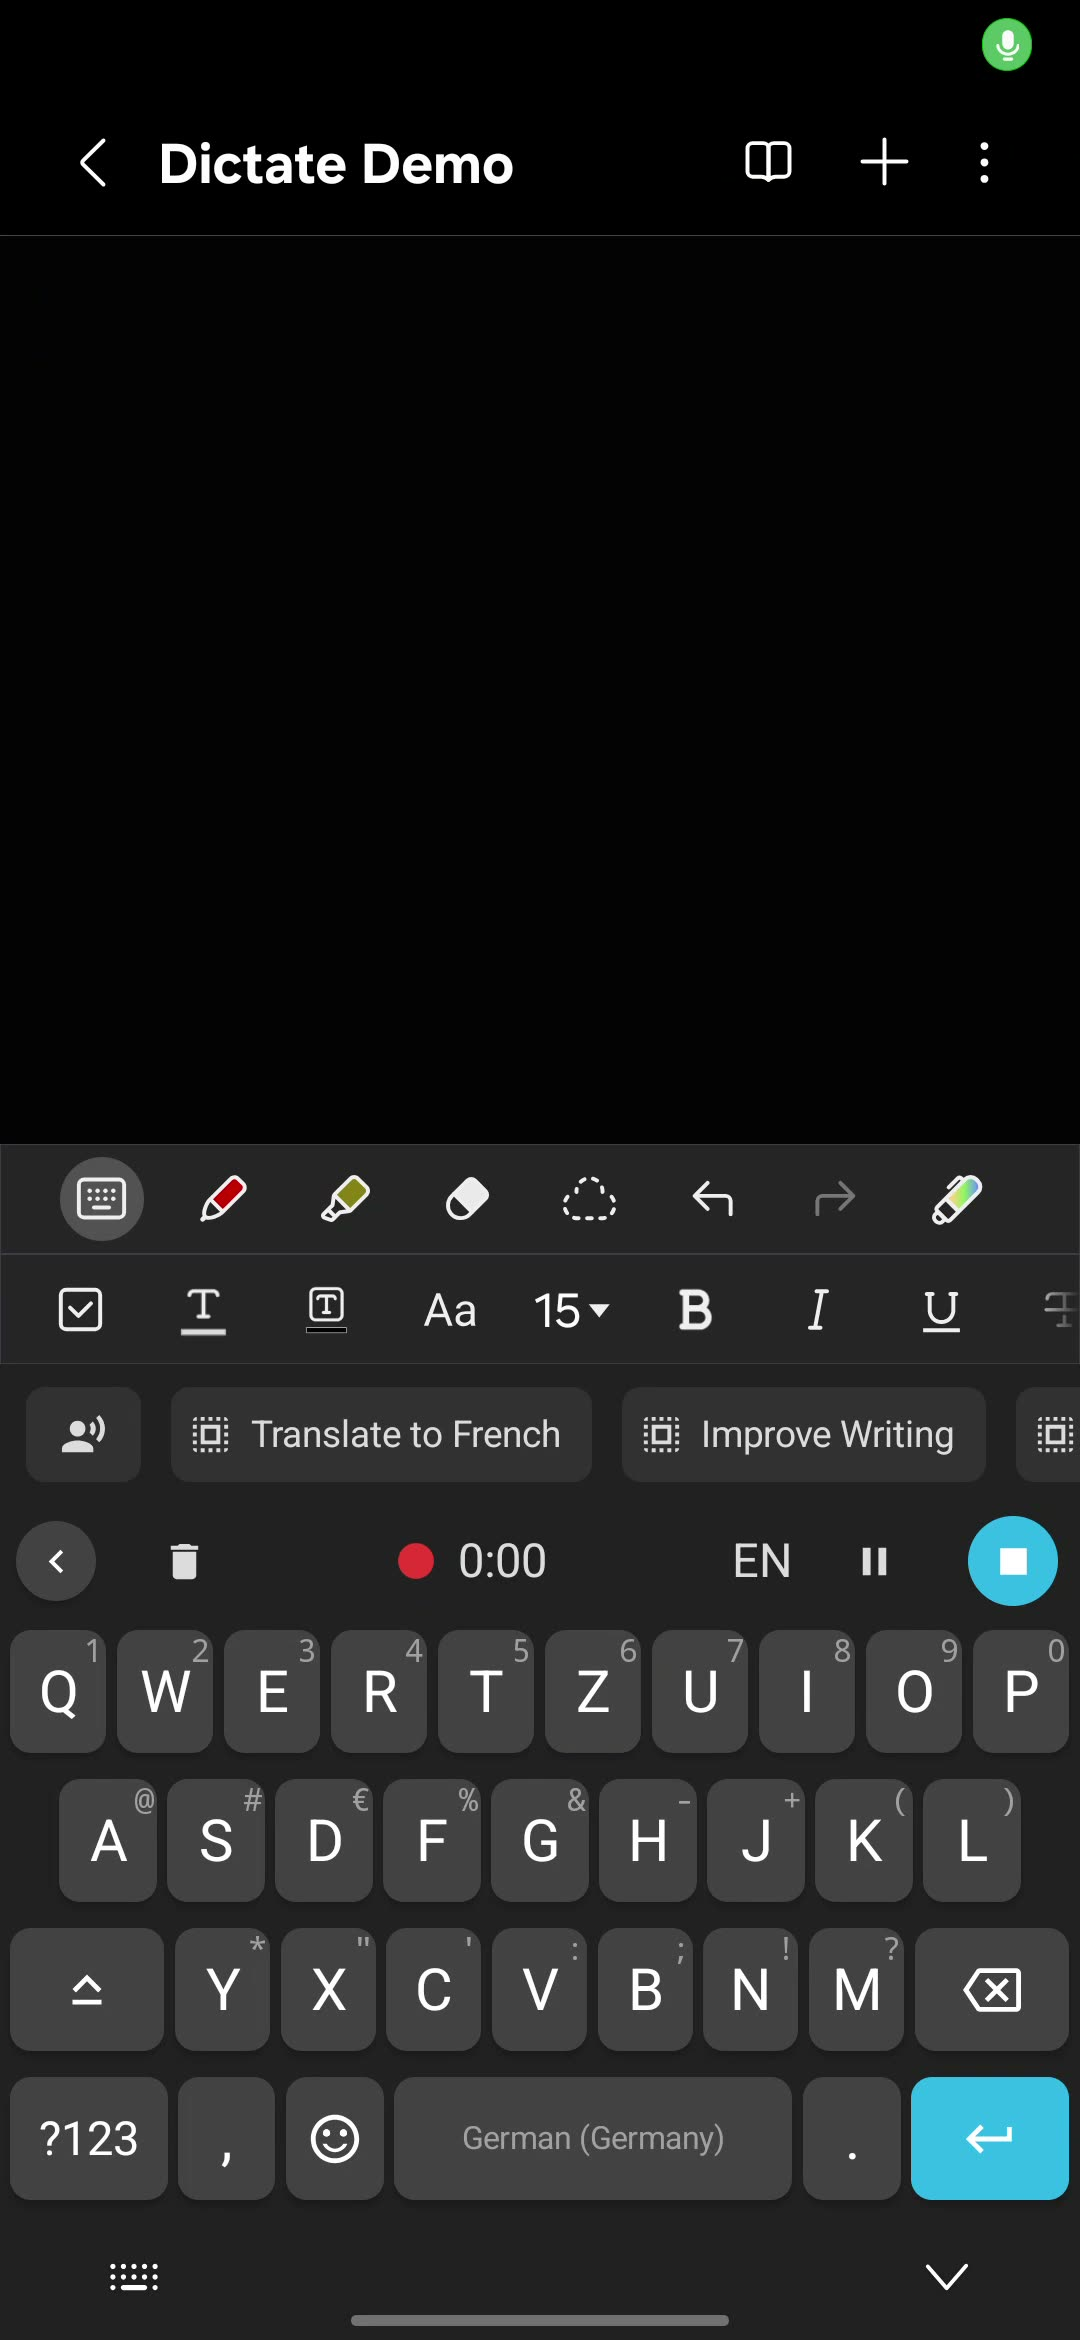
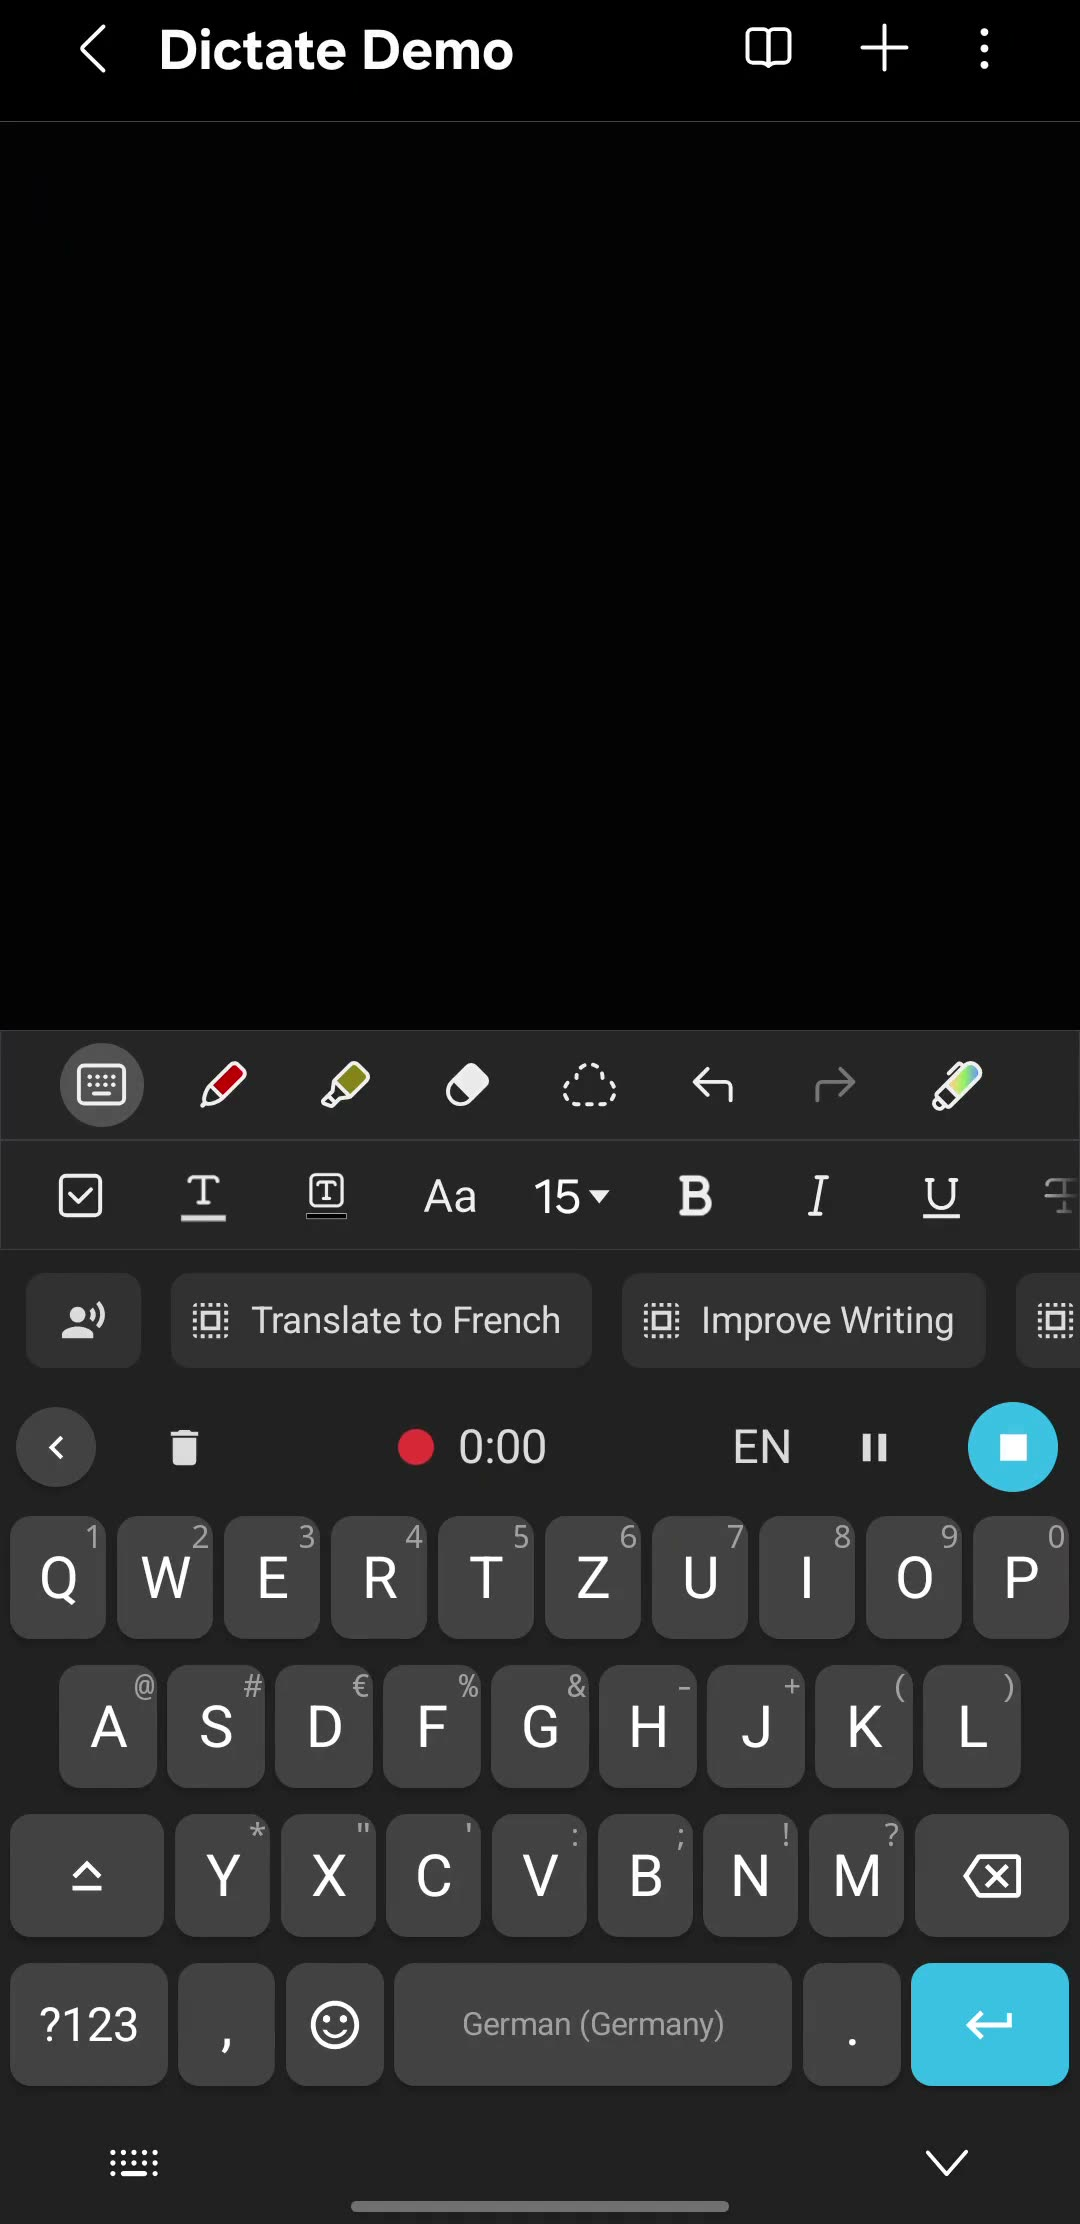
website-dev: crop video status bar, fix languages inset, move reviews up
- Re-crop the demo recording to remove the Android status bar (time/wifi/mute/
  battery) so only the app UI shows; drop the phone notch overlay (it now covered
  the app title) and update the video aspect ratio.
- Fix the languages section: the section-shell was on the outer element so the
  content sat flush against the viewport edge — move it to the inner wrapper so
  the heading/cards/marquee are properly inset; tighten padding, lift the
  second-line colour on the dark ground.
- Reorder sections so the demo video and the reviews sit near the top
  (hero → facts → video → reviews → benefits → …) instead of near the footer.

diff --git a/src/styles.css b/src/styles.css
@@ -6223,21 +6223,13 @@ p {
   background: linear-gradient(160deg, #262d36, #12161b);
   box-shadow: 0 44px 90px rgba(13, 17, 23, 0.26), inset 0 1px 0 rgba(255, 255, 255, 0.12);
 }
-.video-phone-notch {
-  position: absolute;
-  top: 11px;
-  left: 50%;
-  z-index: 3;
-  width: 36%;
-  height: 20px;
-  border-radius: 0 0 14px 14px;
-  background: #0a0d11;
-  transform: translateX(-50%);
-}
+/* No notch overlay — the app's own title bar now sits at the very top of the (cropped) recording, so a
+   notch would cover it. The bezel + rounded corners already read as a phone. */
+.video-phone-notch { display: none; }
 .video-el {
   display: block;
   width: 100%;
-  aspect-ratio: 1080 / 2340;
+  aspect-ratio: 1080 / 2224;
   border-radius: 34px;
   object-fit: cover;
   background: #05070a;
@@ -6255,7 +6247,7 @@ p {
 
 /* --- Languages (dark band) --- */
 .languages {
-  padding-block: 130px;
+  padding-block: 106px;
   background:
     radial-gradient(circle at 84% 10%, rgba(48, 183, 230, 0.12), transparent 30%),
     var(--surface-ink);
@@ -6263,7 +6255,7 @@ p {
 }
 .languages .eyebrow-light { color: var(--accent); }
 .languages-intro h2 { color: var(--on-dark); }
-.languages-intro h2 span { color: #7f8b97; }
+.languages-intro h2 span { color: #9aa5b1; }
 .languages-intro p { color: #9fa8b2; }
 .languages-stats {
   display: grid;

diff --git a/src/App.jsx b/src/App.jsx
@@ -264,6 +264,10 @@ function App() {
           </div>
         </section>
 
+        <VideoShowcase />
+
+        <SocialProof />
+
         <section className="benefits section-shell" id="benefits">
           <div className="section-intro section-intro-split">
             <Reveal>
@@ -279,8 +283,6 @@ function App() {
             {benefits.map((item, index) => <BenefitPanel item={item} index={index} key={item.title} />)}
           </div>
         </section>
-
-        <VideoShowcase />
 
         <FreedomComparison />
 
@@ -426,8 +428,6 @@ function App() {
           </div>
           <Reveal delay={0.1}><Faq /></Reveal>
         </section>
-
-        <SocialProof />
 
         <section className="final-cta section-shell">
           <div className="final-cta-inner">

diff --git a/src/components/Languages.jsx b/src/components/Languages.jsx
@@ -22,8 +22,8 @@ export function Languages() {
   const trackRef = useRef(null);
   useMarqueeScroll(trackRef, 30);
   return (
-    <section className="languages section-shell" id="languages">
-      <div className="languages-inner">
+    <section className="languages" id="languages">
+      <div className="languages-inner section-shell">
         <div className="section-intro languages-intro">
           <Reveal>
             <span className="eyebrow eyebrow-light">SPEAKS YOUR LANGUAGE</span>